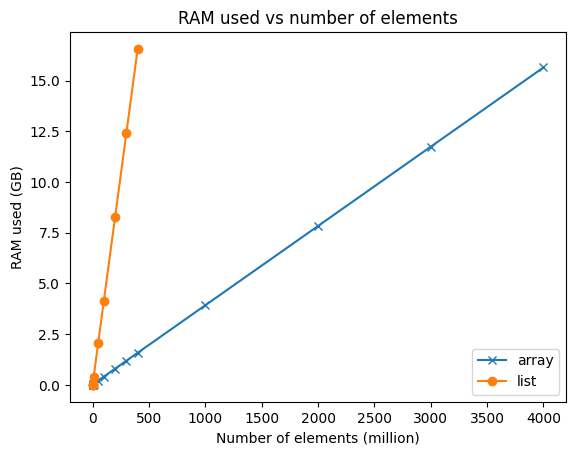
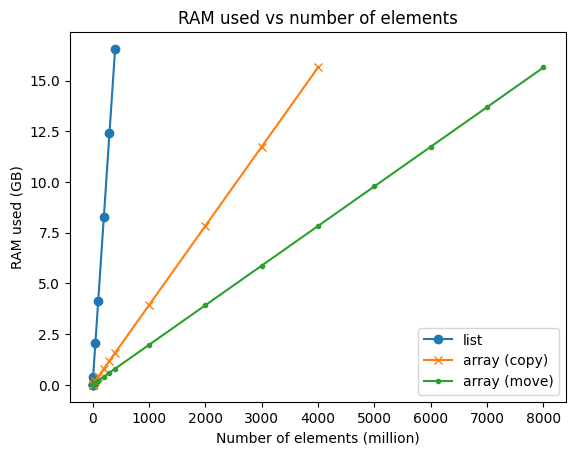
update scripts & plots with array_nocopy data

diff --git a/scripts/plot.py b/scripts/plot.py
@@ -4,26 +4,30 @@
 import numpy as np
 import matplotlib.pyplot as plt
 
-mem_array = np.loadtxt("mem_array.txt")
 mem_list = np.loadtxt("mem_list.txt")
+mem_array = np.loadtxt("mem_array.txt")
+mem_array_nocopy = np.loadtxt("mem_array_nocopy.txt")
 
 plt.figure()
 plt.title("RAM used vs number of elements")
 plt.xlabel("Number of elements (million)")
 plt.ylabel("RAM used (GB)")
-plt.plot(mem_array[:,0]/1e6, mem_array[:,1]/1e6, label="array", marker="x")
 plt.plot(mem_list[:,0]/1e6, mem_list[:,1]/1e6, label="list", marker="o")
+plt.plot(mem_array[:,0]/1e6, mem_array[:,1]/1e6, label="array (copy)", marker="x")
+plt.plot(mem_array_nocopy[:,0]/1e6, mem_array_nocopy[:,1]/1e6, label="array (move)", marker=".")
 plt.legend()
 plt.savefig('memory.png', bbox_inches='tight')
 
-time_array = np.loadtxt("time_array.txt")
 time_list = np.loadtxt("time_list.txt")
+time_array = np.loadtxt("time_array.txt")
+time_array_nocopy = np.loadtxt("time_array_nocopy.txt")
 
 plt.figure()
 plt.title("Time used vs number of elements")
 plt.xlabel("Number of elements (million)")
 plt.ylabel("Time used (seconds)")
-plt.plot(time_array[:,0]/1e6, time_array[:,1], label="array", marker="x")
 plt.plot(time_list[:,0]/1e6, time_list[:,1], label="list", marker="o")
+plt.plot(time_array[:,0]/1e6, time_array[:,1], label="array (copy)", marker="x")
+plt.plot(time_array_nocopy[:,0]/1e6, time_array_nocopy[:,1], label="array (move)", marker=".")
 plt.legend()
 plt.savefig('time.png', bbox_inches='tight')

diff --git a/scripts/memory.py b/scripts/memory.py
@@ -14,6 +14,8 @@ if(data_type == 0):
     a = pybind11numpyexample.vector_as_list(n)
 elif(data_type == 1):
     a = pybind11numpyexample.vector_as_array(n)
+elif(data_type == 2):
+    a = pybind11numpyexample.vector_as_array_nocopy(n)
 
 max_mem_after = resource.getrusage(resource.RUSAGE_SELF).ru_maxrss
 

diff --git a/scripts/time.py b/scripts/time.py
@@ -15,5 +15,7 @@ def doit():
         return pybind11numpyexample.vector_as_list(n)
     elif(data_type == 1):
         return pybind11numpyexample.vector_as_array(n)
+    elif(data_type == 2):
+        return pybind11numpyexample.vector_as_array_nocopy(n)
 
 print(timeit.timeit(doit, number=iters)/iters)

diff --git a/README.md b/README.md
@@ -10,8 +10,9 @@ A simple example of how to use [pybind11](https://github.com/pybind/pybind11) wi
 
 This C++/Python library creates a `std::vector` of 16-bit ints,
 and provides a Python interface to the contents of this vector in a few different ways:
-- a Python [List](https://docs.python.org/3/tutorial/datastructures.html#more-on-lists)
-- a NumPy [ndarray](https://numpy.org/doc/stable/reference/generated/numpy.ndarray.html).
+- a Python [List](https://docs.python.org/3/tutorial/datastructures.html#more-on-lists) (copy the data)
+- a NumPy [ndarray](https://numpy.org/doc/stable/reference/generated/numpy.ndarray.html) (copy the data).
+- a NumPy [ndarray](https://numpy.org/doc/stable/reference/generated/numpy.ndarray.html) (move the data).
 
 # Why
 Python Lists are great!
